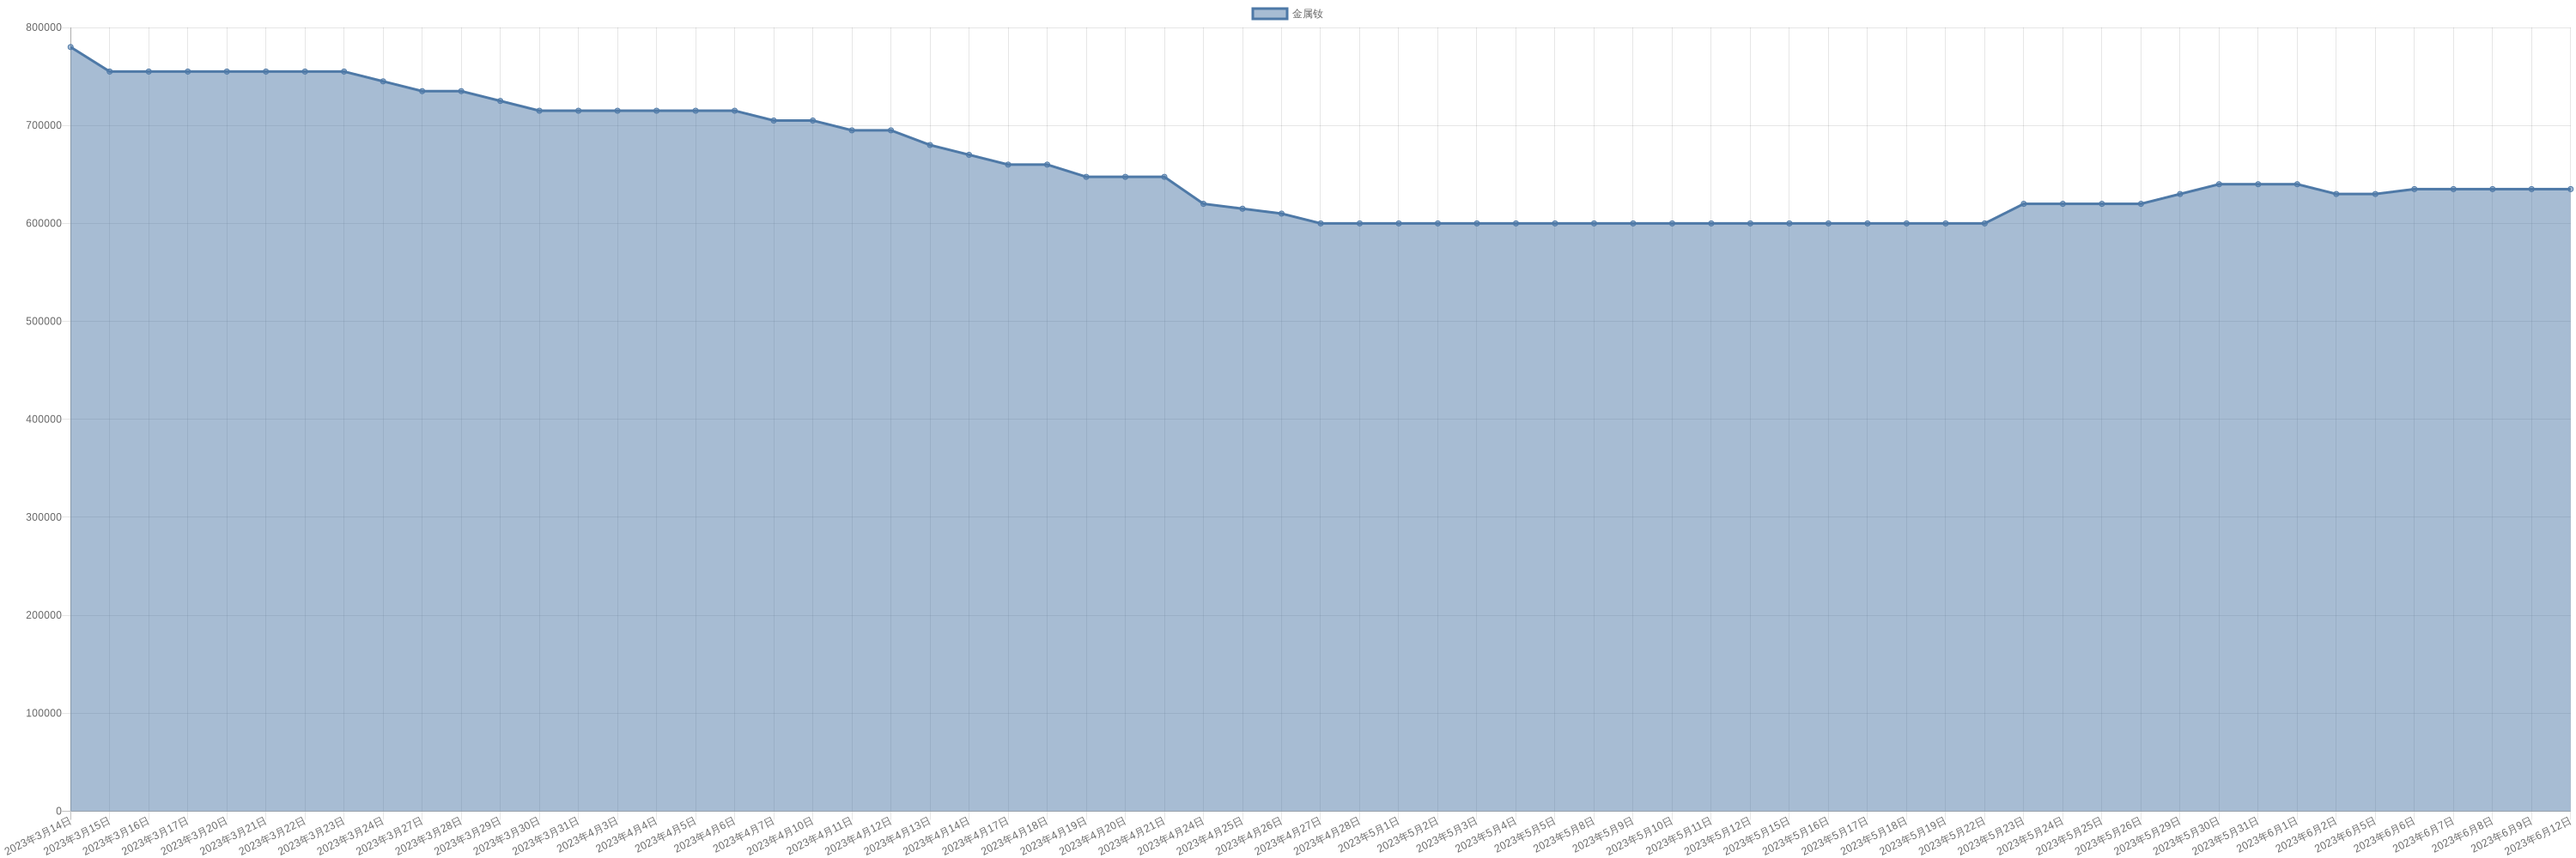
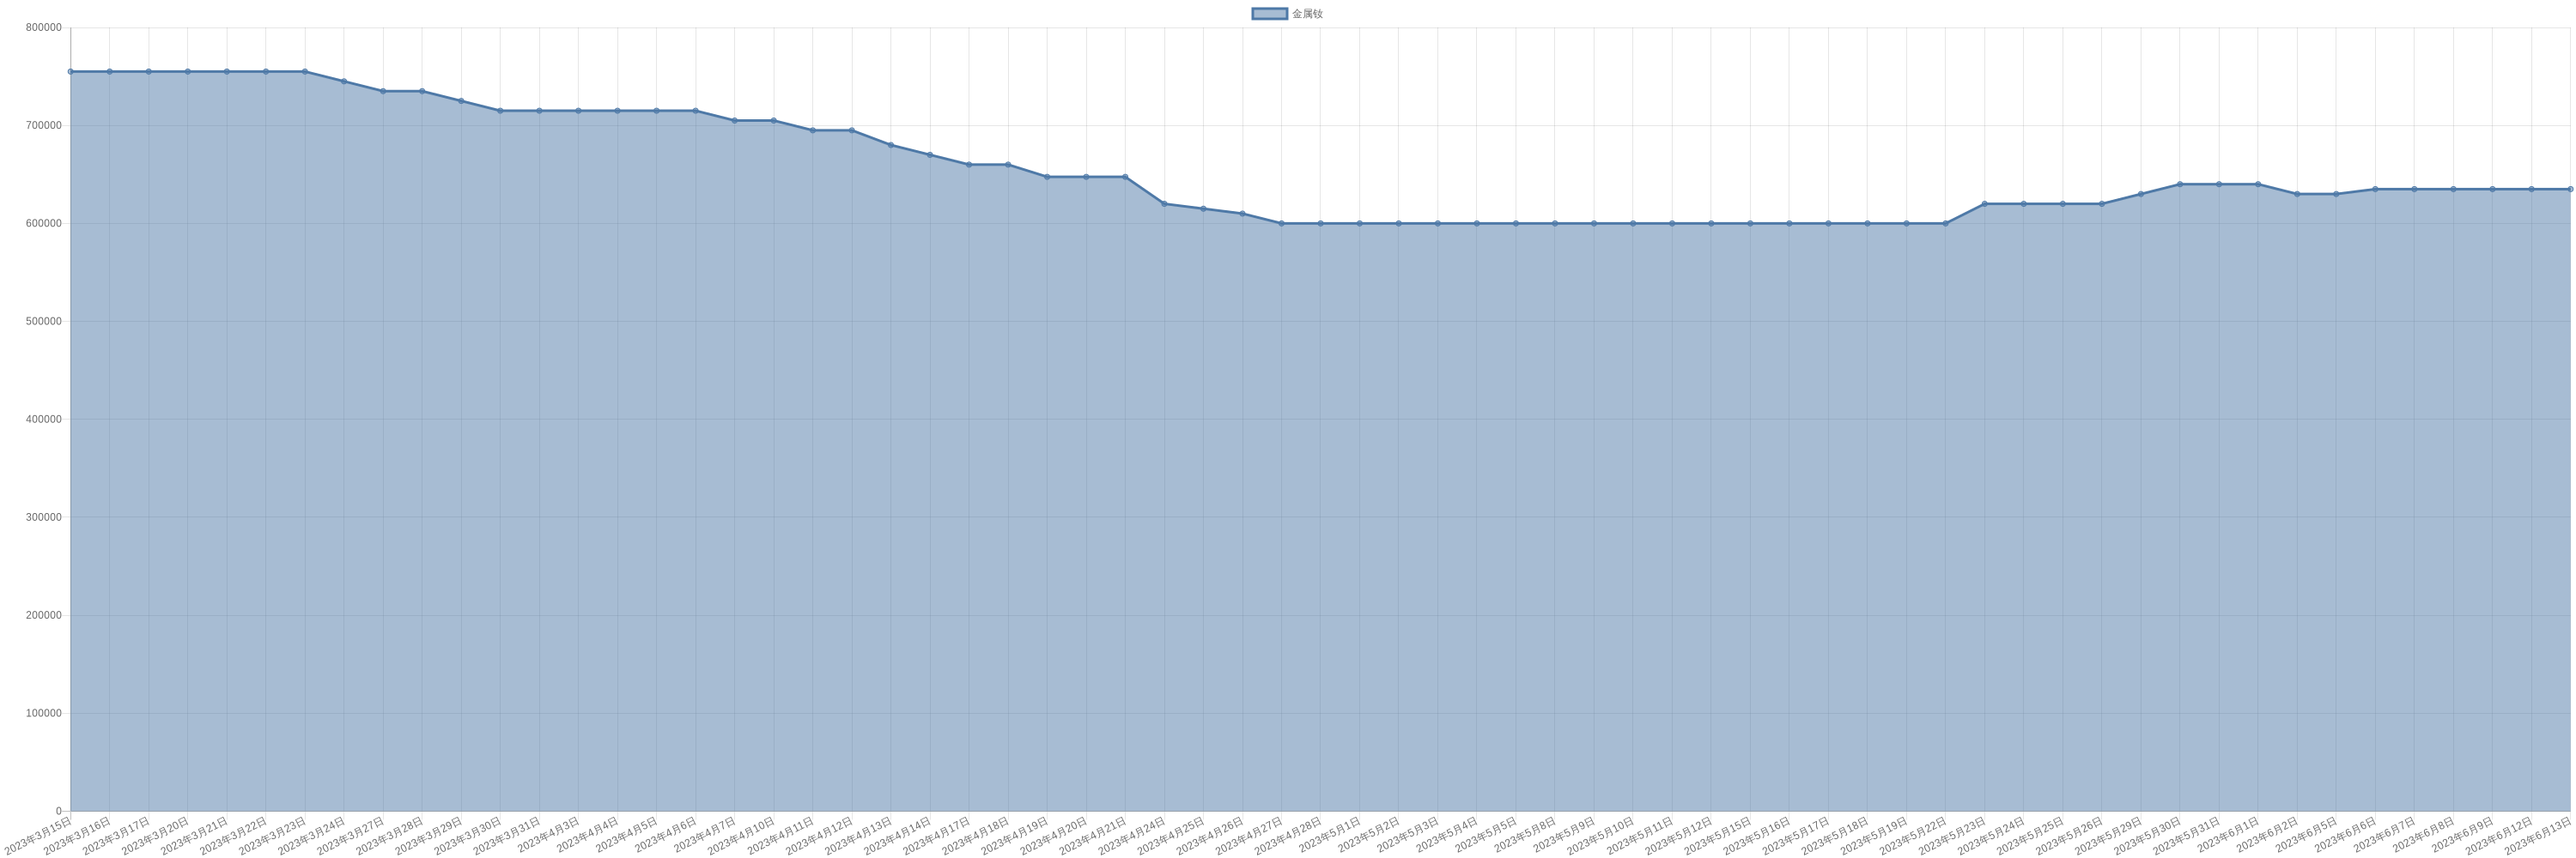
chore: sync commodity monitor

diff --git a/markdown/commodity/crudeOil.md b/markdown/commodity/crudeOil.md
@@ -2,6 +2,8 @@
 
 | 时间 | 价格 | 消息正文 |
 |:--:|:--:|:--:|
+|2023年6月13日WTI|67.12|6月13日WTI原油为67.12|
+|2023年6月13日Brent|71.84|6月13日Brent原油为71.84|
 |2023年6月12日WTI|70.17|6月12日WTI原油为70.17|
 |2023年6月12日Brent|74.79|6月12日Brent原油为74.79|
 |2023年6月9日Brent|75.96|6月9日Brent原油为75.96|

diff --git a/markdown/commodity/praseodymiumNeodymiumOxide.md b/markdown/commodity/praseodymiumNeodymiumOxide.md
@@ -8,6 +8,7 @@
 
 | 时间 | 价格 | 消息正文 |
 |:--:|:--:|:--:|
+|2023年6月13日|502500|6月13日镨钕氧化物为502500.00|
 |2023年6月12日|502500|6月12日镨钕氧化物为502500.00|
 |2023年6月9日|500000|6月9日镨钕氧化物为500000.00|
 |2023年6月8日|500000|6月8日镨钕氧化物为500000.00|

diff --git a/markdown/commodity/dyFeAlloy.md b/markdown/commodity/dyFeAlloy.md
@@ -8,6 +8,7 @@
 
 | 时间 | 价格 | 消息正文 |
 |:--:|:--:|:--:|
+|2023年6月13日|2090000|6月13日镝铁合金为2090000.00|
 |2023年6月12日|2090000|6月12日镝铁合金为2090000.00|
 |2023年6月9日|2070000|6月9日镝铁合金为2070000.00|
 |2023年6月8日|2060000|6月8日镝铁合金为2060000.00|

diff --git a/markdown/commodity/lithiumHydroxide.md b/markdown/commodity/lithiumHydroxide.md
@@ -8,6 +8,7 @@
 
 | 时间 | 价格 | 消息正文 |
 |:--:|:--:|:--:|
+|2023年6月13日|332500|6月13日氢氧化锂为332500.00|
 |2023年6月12日|332500|6月12日氢氧化锂为332500.00|
 |2023年6月9日|332500|6月9日氢氧化锂为332500.00|
 |2023年6月8日|332500|6月8日氢氧化锂为332500.00|

diff --git a/markdown/commodity/praseodymiumNeodymiumAlloy.md b/markdown/commodity/praseodymiumNeodymiumAlloy.md
@@ -8,6 +8,7 @@
 
 | 时间 | 价格 | 消息正文 |
 |:--:|:--:|:--:|
+|2023年6月13日|605000|6月13日镨钕合金为605000.00|
 |2023年6月12日|605000|6月12日镨钕合金为605000.00|
 |2023年6月9日|602500|6月9日镨钕合金为602500.00|
 |2023年6月8日|602500|6月8日镨钕合金为602500.00|

diff --git a/markdown/commodity/dysprosiumMetal.md b/markdown/commodity/dysprosiumMetal.md
@@ -8,6 +8,7 @@
 
 | 时间 | 价格 | 消息正文 |
 |:--:|:--:|:--:|
+|2023年6月13日|2710000|6月13日金属镝为2710000.00|
 |2023年6月12日|2710000|6月12日金属镝为2710000.00|
 |2023年6月9日|2680000|6月9日金属镝为2680000.00|
 |2023年6月8日|2680000|6月8日金属镝为2680000.00|

diff --git a/markdown/commodity/dysprosiumOxide.md b/markdown/commodity/dysprosiumOxide.md
@@ -8,6 +8,7 @@
 
 | 时间 | 价格 | 消息正文 |
 |:--:|:--:|:--:|
+|2023年6月13日|2150000|6月13日氧化镝为2150000.00|
 |2023年6月12日|2130000|6月12日氧化镝为2130000.00|
 |2023年6月9日|2115000|6月9日氧化镝为2115000.00|
 |2023年6月8日|2105000|6月8日氧化镝为2105000.00|

diff --git a/markdown/commodity/liquefiedNaturalGas.md b/markdown/commodity/liquefiedNaturalGas.md
@@ -8,6 +8,7 @@
 
 | 时间 | 价格 | 消息正文 |
 |:--:|:--:|:--:|
+|2023年6月13日|3806|6月13日液化天然气为3806.00|
 |2023年6月12日|3750|6月12日液化天然气为3750.00|
 |2023年6月9日|3588|6月9日液化天然气为3588.00|
 |2023年6月8日|3560|6月8日液化天然气为3560.00|

diff --git a/markdown/commodity/lithiumIronPhosphate.md b/markdown/commodity/lithiumIronPhosphate.md
@@ -8,6 +8,7 @@
 
 | 时间 | 价格 | 消息正文 |
 |:--:|:--:|:--:|
+|2023年6月13日|94000|6月13日磷酸铁锂为94000.00|
 |2023年6月12日|94000|6月12日磷酸铁锂为94000.00|
 |2023年6月9日|94000|6月9日磷酸铁锂为94000.00|
 |2023年6月8日|94000|6月8日磷酸铁锂为94000.00|

diff --git a/markdown/commodity/neodymium.md b/markdown/commodity/neodymium.md
@@ -8,6 +8,7 @@
 
 | 时间 | 价格 | 消息正文 |
 |:--:|:--:|:--:|
+|2023年6月13日|635000|6月13日金属钕为635000.00|
 |2023年6月12日|635000|6月12日金属钕为635000.00|
 |2023年6月9日|635000|6月9日金属钕为635000.00|
 |2023年6月8日|635000|6月8日金属钕为635000.00|

diff --git a/markdown/commodity/neodymiumOxide.md b/markdown/commodity/neodymiumOxide.md
@@ -8,6 +8,7 @@
 
 | 时间 | 价格 | 消息正文 |
 |:--:|:--:|:--:|
+|2023年6月13日|505000|6月13日氧化钕为505000.00|
 |2023年6月12日|505000|6月12日氧化钕为505000.00|
 |2023年6月9日|505000|6月9日氧化钕为505000.00|
 |2023年6月8日|505000|6月8日氧化钕为505000.00|

diff --git a/markdown/commodity/praseodymium.md b/markdown/commodity/praseodymium.md
@@ -8,6 +8,7 @@
 
 | 时间 | 价格 | 消息正文 |
 |:--:|:--:|:--:|
+|2023年6月13日|645000|6月13日金属镨为645000.00|
 |2023年6月12日|635000|6月12日金属镨为635000.00|
 |2023年6月9日|635000|6月9日金属镨为635000.00|
 |2023年6月8日|635000|6月8日金属镨为635000.00|
